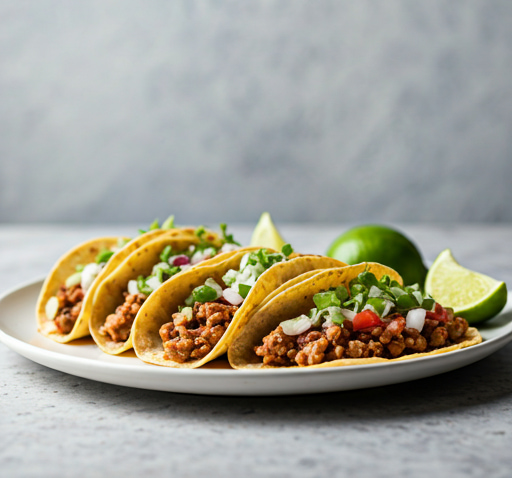
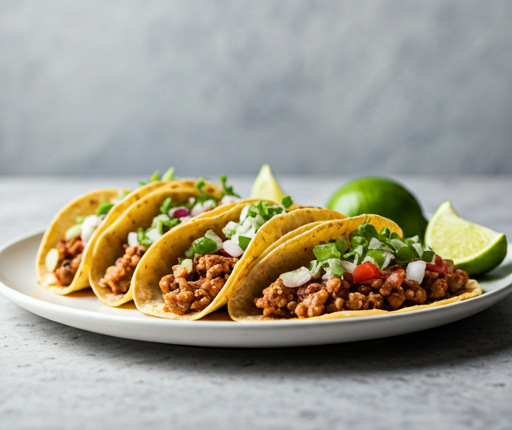
good

diff --git a/src/pages/Restaurants/Restaurants.module.scss b/src/pages/Restaurants/Restaurants.module.scss
@@ -4,7 +4,7 @@
 	.main {
 		display: flex;
 		align-items: flex-start;
-		max-width: 1600px;
+		max-width: 1700px;
 		margin-inline: auto;
 		padding-inline: 5.5rem;
 		gap: 2rem;
@@ -22,6 +22,16 @@
 
 		.content {
 			flex: 1;
+
+			.title {
+				font-size: 1.875rem;
+			}
+
+			.subtitle {
+				font-size: 1rem;
+				color: var(--text-color-v2);
+				font-weight: 500;
+			}
 		}
 
 		.restaurantList {

diff --git a/src/components/Header/Header.module.scss b/src/components/Header/Header.module.scss
@@ -25,7 +25,7 @@
 		display: flex;
 		justify-content: space-between;
 		align-items: center;
-		max-width: 1600px;
+		max-width: 1700px;
 		gap: 2rem;
 
 		@include media.tablet {

diff --git a/src/components/RestaurantCard/RestaurantCard.module.scss b/src/components/RestaurantCard/RestaurantCard.module.scss
@@ -13,7 +13,7 @@
 	}
 
 	.header {
-		flex: 0 192px;
+		flex: 0 190px;
 		overflow: hidden;
 		position: relative;
 
